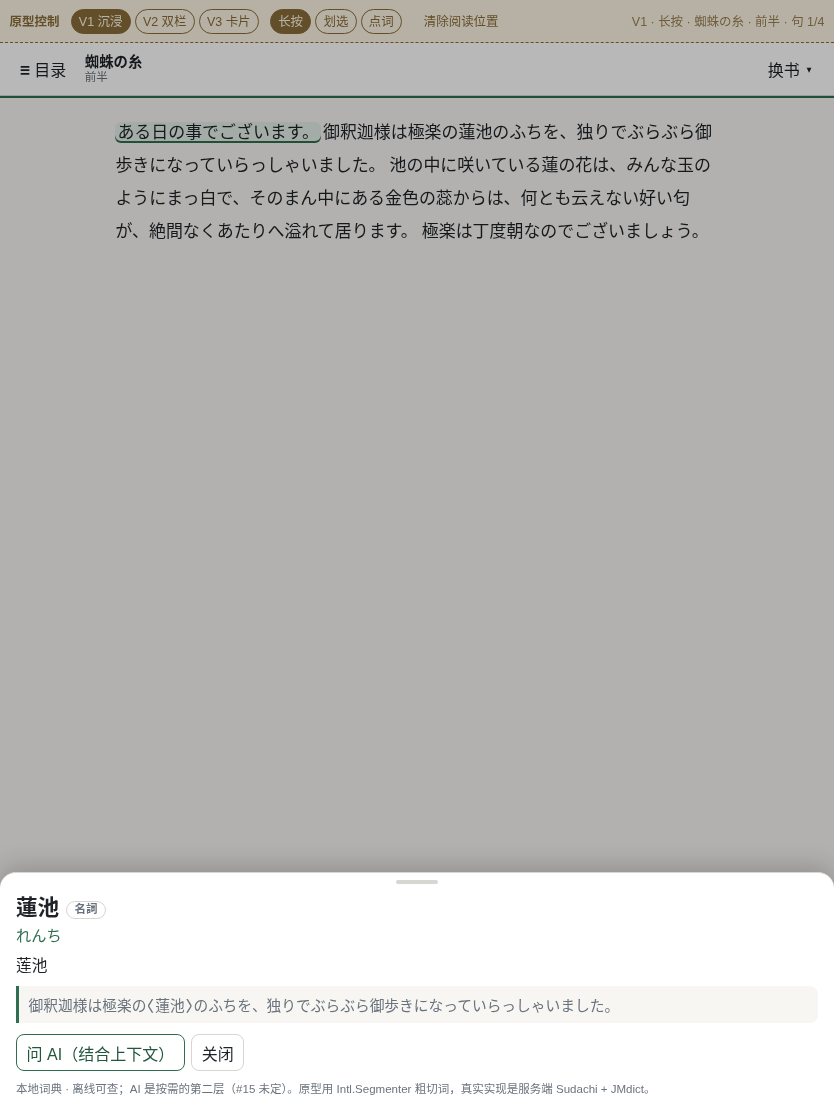
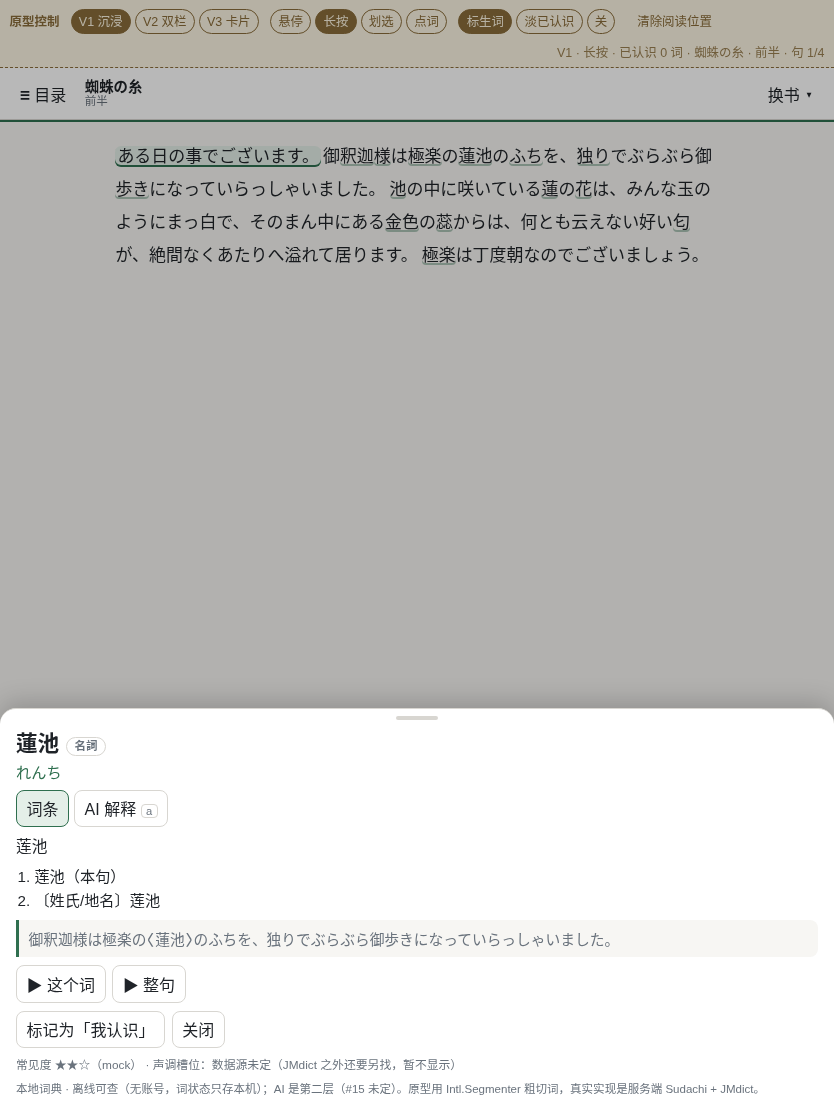
prototype(#12): borrow Migaku interactions — word states, hover lookup, card tabs, hotkeys

diff --git a/prototype/reader-lookup-ui/index.html b/prototype/reader-lookup-ui/index.html
@@ -108,18 +108,29 @@
   #sheet .card{padding:.5rem 1rem 1rem;overflow-y:auto}
   #pop{position:absolute;z-index:19;width:min(20rem,86vw);max-height:60vh;overflow:auto;background:var(--surface);border:1px solid var(--border);
     border-radius:12px;box-shadow:0 6px 20px rgba(0,0,0,.18);padding:.6rem .7rem}
-  .card .word{font-size:1.35rem;font-weight:650;line-height:1.3}
-  .card .reading{color:var(--primary);font-size:.95rem;margin-top:.1rem}
-  .card .pos{display:inline-block;font-size:.72rem;color:var(--muted);border:1px solid var(--border);border-radius:999px;
+  .lookup .word{font-size:1.35rem;font-weight:650;line-height:1.3}
+  .lookup .reading{color:var(--primary);font-size:.95rem;margin-top:.1rem}
+  .lookup .pos{display:inline-block;font-size:.72rem;color:var(--muted);border:1px solid var(--border);border-radius:999px;
     padding:.05rem .45rem;margin-left:.45rem;vertical-align:.1em}
-  .card .gloss{margin-top:.5rem;font-size:.98rem}
-  .card .ctx{margin-top:.6rem;padding:.5rem .6rem;background:var(--bg);border-left:3px solid var(--primary);
+  .lookup .tabs{display:flex;gap:.3rem;margin:.5rem 0 .45rem}
+  .lookup .tabs button[aria-pressed="true"]{background:var(--primary-soft);border-color:var(--primary)}
+  .lookup .gloss{margin-top:.4rem;font-size:.98rem}
+  .lookup .senses{margin:.4rem 0 0;padding-left:1.15rem;font-size:.95rem}
+  .lookup .senses li{margin:.16rem 0}
+  .lookup .ctx{margin-top:.6rem;padding:.5rem .6rem;background:var(--bg);border-left:3px solid var(--primary);
     border-radius:0 8px 8px 0;font-size:.92rem;color:var(--muted)}
-  .card .ctx b{color:var(--text)}
-  .card .actions{display:flex;gap:.4rem;margin-top:.7rem}
-  .card .actions .ai{border-color:var(--primary);color:var(--primary-strong)}
-  .card .aiout{margin-top:.6rem;padding:.55rem .65rem;background:var(--primary-soft);border-radius:8px;font-size:.92rem;white-space:pre-wrap}
-  .card .note{margin-top:.55rem;font-size:.72rem;color:var(--muted)}
+  .lookup .ctx b{color:var(--text)}
+  .lookup .audiorow{display:flex;gap:.4rem;margin-top:.55rem}
+  .lookup .actions{display:flex;gap:.4rem;margin-top:.5rem;flex-wrap:wrap}
+  .lookup .actions .ai{border-color:var(--primary);color:var(--primary-strong)}
+  .lookup .aiout{margin:.3rem 0 0;padding:.55rem .65rem;background:var(--primary-soft);border-radius:8px;font-size:.92rem;white-space:pre-wrap}
+  .lookup .meta{margin-top:.45rem;font-size:.74rem;color:var(--muted)}
+  .lookup .note{margin-top:.5rem;font-size:.72rem;color:var(--muted)}
+  .kbd{font:inherit;font-size:.7rem;border:1px solid var(--border);border-radius:4px;padding:0 .28rem;color:var(--muted)}
+  /* 词状态（借 Migaku 的 known-words 着色，简化为两态；只存本机、无账号） */
+  .w.grab{background:var(--primary-soft);outline:2px solid var(--primary)}
+  #app[data-hl="underline"] .w.w-dict:not(.k-known){box-shadow:inset 0 -2px 0 rgba(47,111,79,.38)}
+  #app[data-hl="dim"] .w.k-known{opacity:.38}
   .spinner{display:inline-block;width:.8em;height:.8em;border:2px solid var(--border);border-top-color:var(--primary);
     border-radius:50%;animation:spin .7s linear infinite;vertical-align:-.05em}
   @keyframes spin{to{transform:rotate(360deg)}}
@@ -142,7 +153,7 @@
 </style>
 </head>
 <body>
-<div id="app" data-variant="1" data-gesture="hold">
+<div id="app" data-variant="1" data-gesture="hold" data-hl="underline">
 
   <div id="proto">
     <b>原型控制</b>
@@ -150,9 +161,13 @@
       <button data-v="1">V1 沉浸</button><button data-v="2">V2 双栏</button><button data-v="3">V3 卡片</button>
     </span>
     <span class="seg" role="group" aria-label="查义手势">
-      <button data-g="hold">长按</button><button data-g="select">划选</button><button data-g="tap">点词</button>
+      <button data-g="hover">悬停</button><button data-g="hold">长按</button><button data-g="select">划选</button><button data-g="tap">点词</button>
+    </span>
+    <span class="seg" role="group" aria-label="生词提示">
+      <button data-h="underline">标生词</button><button data-h="dim">淡已认识</button><button data-h="off">关</button>
     </span>
     <button class="plain" id="resetPos">清除阅读位置</button>
+    <span id="keysHint" hidden>空格 播放 · ←/→ 换句 · <b>k</b> 我认识 · <b>n</b> 下一个生词 · <b>a</b> 问 AI · Esc 关闭</span>
     <span id="protoState"></span>
   </div>
 
@@ -215,16 +230,16 @@ Either the well was very deep, or she fell very slowly, for she had plenty of ti
     ],
     dict:{
       tired:{pos:'adj.',gloss:'疲倦的，累的',ai:'“get tired of” 是固定搭配：厌倦、厌烦。这里不是身体累，而是“坐着没事干，烦了”。'},
-      bank:{pos:'n.',gloss:'河岸',ai:'此处 bank 不是“银行”，而是“河岸/岸边”——由后面的 sister、daisies 可以判断是户外场景。'},
+      bank:{pos:'n.',gloss:'河岸',freq:3,senses:['河岸，岸边（本句用的是这个）','银行（本义另用）'],ai:'此处 bank 不是“银行”，而是“河岸/岸边”——由后面的 sister、daisies 可以判断是户外场景。'},
       peeped:{pos:'v. (past)',gloss:'偷看，瞥一眼'},
       pictures:{pos:'n.',gloss:'图画'},
       conversations:{pos:'n.',gloss:'对话，交谈'},
       sleepy:{pos:'adj.',gloss:'困倦的'},
       stupid:{pos:'adj.',gloss:'昏昏沉沉的，迟钝的'},
       pleasure:{pos:'n.',gloss:'乐趣'},
-      trouble:{pos:'n.',gloss:'麻烦，费劲'},
+      trouble:{pos:'n.',gloss:'麻烦，费劲',freq:3,senses:['麻烦、费劲（本句 the trouble of…）','in trouble = 处于困境']},
       suddenly:{pos:'adv.',gloss:'突然地'},
-      rabbit:{pos:'n.',gloss:'兔子'},
+      rabbit:{pos:'n.',gloss:'兔子',freq:3,senses:['兔子','（大写 White Rabbit）白兔先生']},
       remarkable:{pos:'adj.',gloss:'引人注目的，不寻常的'},
       late:{pos:'adj.',gloss:'迟的，晚的'},
       dear:{pos:'interj.',gloss:'哎呀（表示惊慌）'},
@@ -250,8 +265,8 @@ Either the well was very deep, or she fell very slowly, for she had plenty of ti
       '様':{reading:'さま',pos:'接尾辞',gloss:'大人，先生（敬称）'},
       '独り':{reading:'ひとり',pos:'名詞',gloss:'独自，一个人'},
       'ふち':{reading:'ふち',pos:'名詞',gloss:'边缘，池边'},
-      '極楽':{reading:'ごくらく',pos:'名詞',gloss:'极乐世界，天堂'},
-      '蓮池':{reading:'れんち',pos:'名詞',gloss:'莲池'},
+      '極楽':{reading:'ごくらく',pos:'名詞',gloss:'极乐世界，天堂',freq:2,senses:['极乐世界（佛教）','（口语）无忧无虑的境地']},
+      '蓮池':{reading:'れんち',pos:'名詞',gloss:'莲池',freq:2,senses:['莲池（本句）','〔姓氏/地名〕莲池']},
       '蓮':{reading:'はす',pos:'名詞',gloss:'莲，荷花'},
       '花':{reading:'はな',pos:'名詞',gloss:'花'},
       '金色':{reading:'こんじき',pos:'名詞',gloss:'金色'},
@@ -264,7 +279,7 @@ Either the well was very deep, or she fell very slowly, for she had plenty of ti
       '底':{reading:'そこ',pos:'名詞',gloss:'底部'},
       '犍陀多':{reading:'かんだた',pos:'固有名詞',gloss:'犍陀多（人名）',ai:'佛经故事里的人物；名字是梵语转写，不是日常词。'},
       '男':{reading:'おとこ',pos:'名詞',gloss:'男人'},
-      '蜘蛛':{reading:'くも',pos:'名詞',gloss:'蜘蛛'},
+      '蜘蛛':{reading:'くも',pos:'名詞',gloss:'蜘蛛',freq:3,senses:['蜘蛛','〔固定搭配〕蜘蛛の糸 = 蜘蛛丝（本作书名）']},
       '命':{reading:'いのち',pos:'名詞',gloss:'生命'},
       '善い':{reading:'よい',pos:'形容詞',gloss:'好的，善良的'},
       '悪い':{reading:'わるい',pos:'形容詞',gloss:'坏的，恶的'},
@@ -303,6 +318,16 @@ const S = {
 };
 function savePos(){ try{ localStorage.setItem('lb-proto-pos', JSON.stringify({book:S.book, chapter:S.chapter, top:scroller.scrollTop})); }catch{} }
 function loadPos(){ try{ return JSON.parse(localStorage.getItem('lb-proto-pos')||'null'); }catch{ return null; } }
+/* 词状态：借 Migaku 的 known-words 着色，简化为两态（我认识 / 未标记），只存本机、无账号 */
+const KNOWN_KEY = 'lb-proto-known';
+let KNOWN = {}; try{ KNOWN = JSON.parse(localStorage.getItem(KNOWN_KEY)||'{}'); }catch{}
+function saveKnown(){ try{ localStorage.setItem(KNOWN_KEY, JSON.stringify(KNOWN)); }catch{} }
+function isKnown(key){ return !!KNOWN[BOOKS[S.book].id+'|'+key]; }
+function setKnown(key, on){ const k = BOOKS[S.book].id+'|'+key; on ? KNOWN[k]=1 : delete KNOWN[k]; saveKnown(); applyKnown(); updateState(); }
+function applyKnown(){
+  const id = BOOKS[S.book].id;
+  article.querySelectorAll('.w').forEach(el=>el.classList.toggle('k-known', !!KNOWN[id+'|'+el.dataset.w]));
+}
 
 /* -------------------------------------------------------------- rendering */
 function renderChapter(restoreTop){
@@ -325,6 +350,7 @@ function renderChapter(restoreTop){
       if(w.isWordLike){
         const ws = document.createElement('span');
         ws.className = 'w'; ws.textContent = w.segment; ws.dataset.w = lookupKey(b, w.segment);
+        if(b.dict[lookupKey(b, w.segment)]) ws.classList.add('w-dict');
         sp.appendChild(ws);
       } else sp.appendChild(document.createTextNode(w.segment));
       cursor = w.index + w.segment.length;
@@ -335,6 +361,7 @@ function renderChapter(restoreTop){
   article.appendChild(p);
   scroller.scrollTop = restoreTop || 0;
   selectSentence(S.sel = 0);
+  applyKnown();
   renderTOC();
   updateState();
   updateProgress();
@@ -358,7 +385,8 @@ function updateProgress(){
 }
 function updateState(){
   const b = BOOKS[S.book], ch = b.chapters[S.chapter];
-  $('#protoState').textContent = `V${S.variant} · ${{hold:'长按',select:'划选',tap:'点词'}[S.gesture]} · ${b.title} · ${ch.title} · 句 ${S.sel+1}/${sentences().length}${S.restored?' · 已恢复位置':''}`;
+  const knownCount = Object.keys(KNOWN).filter(k=>k.startsWith(b.id+'|')).length;
+  $('#protoState').textContent = `V${S.variant} · ${{hover:'悬停',hold:'长按',select:'划选',tap:'点词'}[S.gesture]} · 已认识 ${knownCount} 词 · ${b.title} · ${ch.title} · 句 ${S.sel+1}/${sentences().length}${S.restored?' · 已恢复位置':''}`;
 }
 
 /* ------------------------------------------------------------- playback */
@@ -400,26 +428,60 @@ function contextSentence(el){ return el ? el.closest('.s') : null; }
 function entryFor(book, key){
   return book.dict[key] || null;
 }
+function cardHTML(raw, sourceEl){
+  const b = BOOKS[S.book];
+  const key = lookupKey(b, raw);
+  const e = entryFor(b, key) || {};
+  const known = isKnown(key);
+  const ctx = contextSentence(sourceEl);
+  const ctxHTML = ctx ? ctx.textContent.replace(raw, '⟨'+raw+'⟩') : '';
+  const senses = e.senses ? `<ol class="senses">${e.senses.map(s=>`<li>${s}</li>`).join('')}</ol>` : '';
+  const gloss = e.gloss ? `<div class="gloss">${e.gloss}</div>`
+    : `<div class="gloss"><span style="color:var(--muted)">未收录（真实实现走服务端词典，见 #11；查不到时怎么提示是本票要看的）</span></div>`;
+  const meta = [ e.freq ? `常见度 ${'★'.repeat(e.freq)}${'☆'.repeat(Math.max(0,3-e.freq))}（mock）` : null,
+                 b.lang==='ja' ? '声调槽位：数据源未定（JMdict 之外还要另找，暂不显示）' : null ].filter(Boolean).join(' · ');
+  return `
+  <div class="lookup">
+    <div class="word">${raw}${e.pos?`<span class="pos">${e.pos}</span>`:''}</div>
+    ${e.reading?`<div class="reading">${e.reading}</div>`:''}
+    <div class="tabs">
+      <button data-ltab="dict" aria-pressed="true">词条</button>
+      <button data-ltab="ai" aria-pressed="false">AI 解释 <span class="kbd">a</span></button>
+    </div>
+    <div data-pane="dict">${gloss}${senses}${ctxHTML?`<div class="ctx">${ctxHTML}</div>`:''}</div>
+    <div data-pane="ai" hidden>
+      <div class="aiout" data-aiout hidden></div>
+      <button class="ai" data-ai>问 AI（结合上下文）</button>
+    </div>
+    <div class="audiorow">
+      <button data-say="word">▶ 这个词</button>
+      <button data-say="sentence">▶ 整句</button>
+    </div>
+    <div class="actions">
+      <button data-known>${known?'✓ 已认识 · 点一下取消':'标记为「我认识」'}</button>
+      <button data-close>关闭</button>
+    </div>
+    ${meta?`<div class="meta">${meta}</div>`:''}
+    <div class="note">本地词典 · 离线可查（无账号，词状态只存本机）；AI 是第二层（#15 未定）。${b.lang==='ja'?'原型用 Intl.Segmenter 粗切词，真实实现是服务端 Sudachi + JMdict。':''}</div>
+  </div>`;
+}
+function setLookupTab(root, tab){
+  root.querySelectorAll('[data-ltab]').forEach(b=>b.setAttribute('aria-pressed', b.dataset.ltab===tab));
+  root.querySelectorAll('[data-pane]').forEach(p=>p.hidden = p.dataset.pane!==tab);
+}
+function askAI(root, e, raw, sourceEl){
+  const pane = root.querySelector('[data-pane="ai"]'); if(!pane) return;
+  setLookupTab(root, 'ai');
+  const out = pane.querySelector('[data-aiout]');
+  out.hidden = false; out.innerHTML = '<span class="spinner"></span> 问 AI…';
+  const ctx = contextSentence(sourceEl);
+  const ai = e.ai || `（mock）结合这一句：「${(ctx?ctx.textContent:'').slice(0,60)}…」中，「${raw}」在这里的意思是……`;
+  setTimeout(()=>{ out.textContent = ai; }, 1100);
+}
 function showCard(raw, sourceEl, anchor){
   const b = BOOKS[S.book];
   const key = lookupKey(b, raw);
-  const e = entryFor(b, key);
-  const ctx = contextSentence(sourceEl);
-  const ctxHTML = ctx ? ctx.textContent.replace(raw, '⟨'+raw+'⟩') : '';
-  const reading = e && e.reading ? `<div class="reading">${e.reading}</div>` : '';
-  const pos = e && e.pos ? `<span class="pos">${e.pos}</span>` : '';
-  const gloss = e ? e.gloss : '<span style="color:var(--muted)">未收录（真实实现走服务端词典，见 #11；查不到时怎么提示是本票要看的）</span>';
-  const ai = (e && e.ai) || `（mock）结合这一句：「${(ctx?ctx.textContent:'').slice(0,60)}…」中，「${raw}」在这里的意思是……`;
-  const html = `
-    <div class="word">${raw}${pos}</div>
-    ${reading}
-    <div class="gloss">${gloss}</div>
-    ${ctxHTML?`<div class="ctx">${ctxHTML}</div>`:''}
-    <div class="actions">
-      <button class="ai" data-ai>问 AI（结合上下文）</button>
-      <button data-close>关闭</button>
-    </div>
-    <div class="note">本地词典 · 离线可查；AI 是按需的第二层（#15 未定）。${b.lang==='ja'?'原型用 Intl.Segmenter 粗切词，真实实现是服务端 Sudachi + JMdict。':''}</div>`;
+  const html = cardHTML(raw, sourceEl);
   const wide = window.matchMedia('(min-width:820px)').matches;
   const host = (S.variant===2 && wide) ? $('#panelBody')
              : (S.variant===3 && wide) ? $('#pop')
@@ -437,18 +499,21 @@ function showCard(raw, sourceEl, anchor){
     $('#sheet').classList.toggle('modal', S.variant===3 && !wide);
     $('#sheet').classList.add('open'); $('#scrim').classList.add('open');
   }
-  (host===$('#pop') ? $('#pop') : host).querySelectorAll('[data-close]').forEach(b=>b.onclick=closeCard);
-  (host===$('#pop') ? $('#pop') : host).querySelectorAll('[data-ai]').forEach(b=>b.onclick=()=>{
-    b.outerHTML = '<span class="spinner"></span> 问 AI…';
-    setTimeout(()=>{
-      const box = (host===$('#pop') ? $('#pop') : host).querySelector('[data-ai]')?.parentElement;
-      const out = document.createElement('div'); out.className='aiout'; out.textContent = ai;
-      (box||host).appendChild(out);
-    }, 1100);
+  S.card = { raw, key, el: sourceEl, host };
+  host.querySelectorAll('[data-ltab]').forEach(x=>x.onclick=()=>setLookupTab(host, x.dataset.ltab));
+  host.querySelectorAll('[data-close]').forEach(x=>x.onclick=closeCard);
+  host.querySelectorAll('[data-known]').forEach(x=>x.onclick=()=>{
+    const on = !isKnown(key); setKnown(key, on);
+    showCard(raw, sourceEl, anchor);
+    toast(on ? `已标为「我认识」：${raw}` : `取消标记：${raw}`);
   });
+  host.querySelectorAll('[data-say]').forEach(x=>x.onclick=()=>{
+    toast(x.dataset.say==='word' ? `▶ 朗读「${raw}」— 走现有 /tts（原型只提示）` : '▶ 朗读整句 — 走现有 /tts（原型只提示）');
+  });
+  host.querySelectorAll('[data-ai]').forEach(x=>x.onclick=()=>askAI(host, entryFor(b, key)||{}, raw, sourceEl));
   updateState();
 }
-function closeCard(){ $('#sheet').classList.remove('open'); $('#scrim').classList.remove('open'); $('#pop').hidden = true; }
+function closeCard(){ $('#sheet').classList.remove('open'); $('#scrim').classList.remove('open'); $('#pop').hidden = true; S.card = null; }
 $('#scrim').onclick = closeCard;
 $('#sheet').querySelector('.handle').onclick = closeCard;
 
@@ -470,7 +535,11 @@ article.addEventListener('pointerdown', e=>{
   longFired = false;
   pressTimer = setTimeout(()=>{
     longFired = true;
-    if(wordEl){ showCard(wordEl.textContent, wordEl, {el:wordEl}); if(navigator.vibrate) navigator.vibrate(15); }
+    if(wordEl){
+      wordEl.classList.add('grab'); setTimeout(()=>wordEl.classList.remove('grab'), 700);
+      showCard(wordEl.textContent, wordEl, {el:wordEl});
+      if(navigator.vibrate) navigator.vibrate(15);
+    }
   }, 420);
 });
 article.addEventListener('pointermove', e=>{
@@ -485,6 +554,18 @@ article.addEventListener('click', e=>{
   if(S.gesture==='tap' && w){ showCard(w.textContent, w, {el:w}); return; }
   const s = e.target.closest('.s');
   if(s) play(+s.dataset.i);
+});
+/* 悬停查词（借 Migaku 的 hover lookup：停留一下才弹，扫过不触发） */
+let hoverTimer=null, hoverEl=null;
+article.addEventListener('pointerover', e=>{
+  if(S.gesture!=='hover' || e.pointerType==='touch') return;
+  const w = e.target.closest('.w');
+  if(!w || w===hoverEl) return;
+  hoverEl = w; clearTimeout(hoverTimer);
+  hoverTimer = setTimeout(()=>{ if(!(S.card && S.card.el===w)) showCard(w.textContent, w, {el:w}); }, 320);
+});
+article.addEventListener('pointerout', e=>{
+  if(e.target.closest('.w')){ clearTimeout(hoverTimer); hoverEl=null; }
 });
 document.addEventListener('mouseup', ()=>{
   if(S.gesture!=='select') return;
@@ -542,7 +623,38 @@ function setGesture(g){
 }
 document.querySelectorAll('#proto [data-v]').forEach(b=>b.onclick=()=>setVariant(+b.dataset.v));
 document.querySelectorAll('#proto [data-g]').forEach(b=>b.onclick=()=>setGesture(b.dataset.g));
+function setHL(h){
+  app.dataset.hl = h;
+  document.querySelectorAll('#proto [data-h]').forEach(b=>b.setAttribute('aria-pressed', b.dataset.h===h));
+}
+document.querySelectorAll('#proto [data-h]').forEach(b=>b.onclick=()=>setHL(b.dataset.h));
 $('#resetPos').onclick = ()=>{ localStorage.removeItem('lb-proto-pos'); toast('已清除阅读位置（刷新试试）'); };
+
+/* 快捷键：借 Migaku「hotkeys for everything」的桌面思路 */
+if(window.matchMedia('(hover:hover)').matches) $('#keysHint').hidden = false;
+function nextUnknown(){
+  const b = BOOKS[S.book];
+  const ws = [...article.querySelectorAll('.w')].filter(el=>!KNOWN[b.id+'|'+el.dataset.w]);
+  if(!ws.length){ toast('这一段没有未标记的词了'); return; }
+  const i = S.card && S.card.el ? ws.indexOf(S.card.el) : -1;
+  const el = ws[(i+1)%ws.length];
+  el.scrollIntoView({block:'center'});
+  showCard(el.textContent, el, {el});
+}
+document.addEventListener('keydown', e=>{
+  if(e.target.matches('textarea,input')) return;
+  const n = sentences().length;
+  if(e.altKey && S.card && (e.key==='1'||e.key==='2')){ setLookupTab(S.card.host, e.key==='1'?'dict':'ai'); return; }
+  switch(e.key){
+    case ' ': e.preventDefault(); play(S.sel); break;
+    case 'ArrowRight': e.preventDefault(); selectSentence(S.sel=(S.sel+1)%n); updateState(); break;
+    case 'ArrowLeft': e.preventDefault(); selectSentence(S.sel=(S.sel-1+n)%n); updateState(); break;
+    case 'Escape': closeCard(); break;
+    case 'k': if(S.card){ const on=!isKnown(S.card.key); setKnown(S.card.key, on); showCard(S.card.raw, S.card.el, {el:S.card.el}); toast(on?`已标为「我认识」：${S.card.raw}`:`取消标记：${S.card.raw}`); } break;
+    case 'a': if(S.card) askAI(S.card.host, entryFor(BOOKS[S.book], S.card.key)||{}, S.card.raw, S.card.el); break;
+    case 'n': nextUnknown(); break;
+  }
+});
 
 /* ---------------------------------------------------------------- startup */
 scroller.addEventListener('scroll', ()=>{ updateProgress(); savePos(); }, {passive:true});
@@ -554,7 +666,8 @@ scroller.addEventListener('scroll', ()=>{ updateProgress(); savePos(); }, {passi
   if(qBook){ const bi = BOOKS.findIndex(b=>b.id===qBook); if(bi>=0){ S.book=bi; S.chapter = +(q.get('ch')||0); } }
   else if(p && BOOKS[p.book]){ S.book=p.book; S.chapter=p.chapter; }
   const v = +(q.get('v')||1); setVariant([1,2,3].includes(v)?v:1);
-  setGesture(q.get('g') || (matchMedia('(hover:none)').matches ? 'hold' : 'select'));
+  setGesture(q.get('g') || (matchMedia('(hover:none)').matches ? 'hold' : 'hover'));
+  setHL(q.get('hl') || 'underline');
   renderChapter(p ? p.top : 0);
   if(p){ S.restored = true; setTimeout(()=>toast(`已回到上次阅读位置：${BOOKS[S.book].chapters[S.chapter].title}`), 400); }
   updateState();

diff --git a/prototype/reader-lookup-ui/README.md b/prototype/reader-lookup-ui/README.md
@@ -11,19 +11,26 @@ python3 -m http.server 8099
 # 平板:  http://192.168.3.15:8099/   （与本机同网时）
 ```
 
-URL 参数（可选）：`?v=1|2|3` 版式、`?g=hold|select|tap` 手势、`?book=alice|kumo&ch=0` 选书。
+URL 参数：`?v=1|2|3` 版式、`?g=hover|hold|select|tap` 查词手势、`?hl=underline|dim|off` 生词提示、`?book=alice|kumo&ch=0` 选书。
 
-## 要看的四件事（对应 ticket 的五个问题）
+## 版式
 
-1. **版式** —— 顶部「原型控制」切换：V1 沉浸（底部抽屉）、V2 双栏（宽屏右侧常驻查义/目录栏，窄屏回落抽屉）、V3 卡片（沿用现有句子卡片，查义用贴着词的浮层）。
-2. **手势共存** —— 长按 / 划选 / 点词三选一：同一段文字上「点句朗读」与「查词」如何不打架。平板重点试长按（会不会触发系统选字/滚动），PC 重点试划选。
-3. **查义卡** —— 放哪（抽屉 / 侧栏 / 浮层）、放什么（读音、释义、上下文句、「问 AI」按钮）、查不到时的样子。
-4. **续读** —— 滚动到某处 → 刷新页面 → 应回到原位置并提示「已回到上次阅读位置」；「清除阅读位置」可重置。
-5. **编辑器共存** —— 读书模式下编辑器收成底部一条（点击可展开），与现有单页布局（ADR 0003）的关系。
+- **V1 沉浸**：极简 chrome + 底部抽屉查义 + 底部播放条 + 编辑器收成一条。
+- **V2 双栏**：宽屏时右侧常驻「查义 / 目录」栏（窄屏回落抽屉）。
+- **V3 卡片**：沿用现有句子卡片，查义用贴着词的浮层（窄屏变居中弹窗）。
+
+## 交互（借自 Migaku 的部分）
+
+- **查词手势四选一**：悬停（PC 默认，停 320ms 才弹，扫过不触发）/ 长按（触摸默认，抓住时词先高亮）/ 划选 / 点词。**点句子永远是朗读**。
+- **词状态两态**（只存本机、无账号）：「标生词」给词典里有、你还没标认识的词加淡下划线；「淡已认识」把标过的词压暗；「关」。词条卡里「标记为「我认识」」。
+- **卡片**：词条 / AI 解释两个 tab（`Alt+1/2`）、▶这个词 / ▶整句、标记认识、释义义项列表、常见度（mock）与声调槽位（数据源未定）。
+- **快捷键（PC）**：`空格` 播放 · `←/→` 换句 · `k` 我认识 · `n` 下一个生词 · `a` 问 AI · `Esc` 关闭。
+- **续读**：滚动后刷新回到原位（localStorage）；「清除阅读位置」重置。
 
 ## 已知的假东西（别当真）
 
-- 播放是假的：只有高亮、加载圈与计时，没有音频。
-- 词典是内嵌样例词条（英/日两个样本），未收录的词会显示「未收录」——那是有意暴露的状态。
+- 播放是假的：只有高亮、加载圈与计时，没有音频；▶这个词/▶整句只弹提示。
+- 词典是内嵌样例词条（英/日两个样本），未收录的词显示「未收录」——有意暴露的状态。
 - 日文切词用 `Intl.Segmenter` 粗切；真实实现应为服务端 Sudachi + JMdict（见 #11）。
-- 阅读位置存 localStorage，仅为演示「打开即续读」。
+- 常见度是 mock；日文声调暂无数据源，只留槽位。
+- 词状态与阅读位置都存 localStorage，仅为演示。
